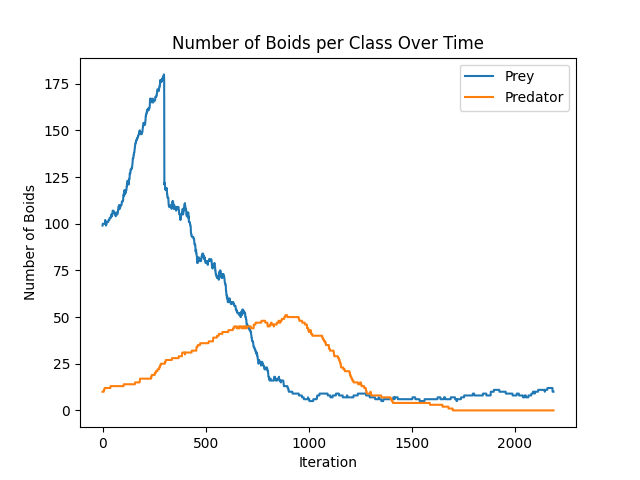
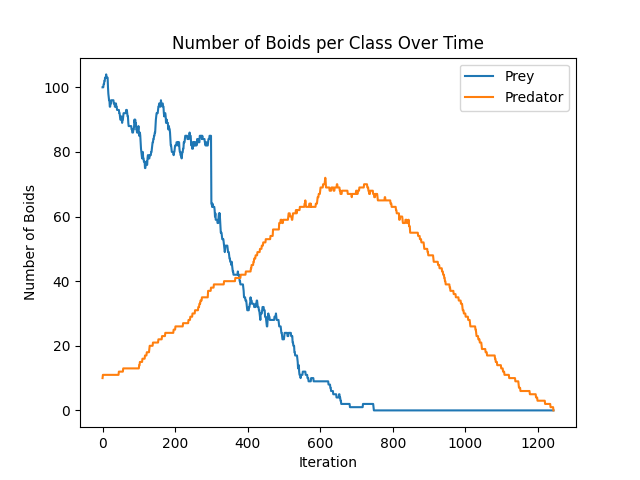
Option to turn off visualization

diff --git a/boids.py b/boids.py
@@ -228,11 +228,12 @@ def create_params_array(classes, separation_weight, alignment_weight, cohesion_w
     combined_result = np.stack((separation_result, alignment_result, cohesion_result), axis=1)
     return combined_result
 
-def pygame_sim():
-    pygame.init()
-    screen = pygame.display.set_mode((WIDTH, HEIGHT))
-    pygame.display.set_caption("Boids Simulation")
-    clock = pygame.time.Clock()
+def simulation(visual=True, sim_length=None):
+    if visual:
+        pygame.init()
+        screen = pygame.display.set_mode((WIDTH, HEIGHT))
+        pygame.display.set_caption("Boids Simulation")
+        clock = pygame.time.Clock()
 
     boids = np.array([np.random.uniform(0, WIDTH, size=NUM_BOIDS),  # x coordiante
                   np.random.uniform(0, HEIGHT, size=NUM_BOIDS), # y coordiante
@@ -258,12 +259,15 @@ def pygame_sim():
     boid_counts = []
 
     while running and len(boids) != 0:
-        screen.fill(BACKGROUND_COLOR)
-        draw_dotted_margin(screen, WIDTH, HEIGHT)
+        if visual: 
+            screen.fill(BACKGROUND_COLOR)
+            draw_dotted_margin(screen, WIDTH, HEIGHT)
 
-        for event in pygame.event.get():
-            if event.type == pygame.QUIT:
-                running = False
+            for event in pygame.event.get():
+                if event.type == pygame.QUIT:
+                    running = False
+        elif sim_length and gametic > sim_length:
+            break
 
         deleteableBoids, energiesToReset, parents = update_numba(boids, classes, energies, random_factors, gametic, params=params)
         for boid in energiesToReset:
@@ -276,18 +280,21 @@ def pygame_sim():
 
         boids, classes, energies, random_factors, params = remove_boid(deleteableBoids, boids, classes, energies, random_factors, params=params)
 
-        draw_boids(screen, boids, classes)
+        if visual:
+            draw_boids(screen, boids, classes)
 
         # Count the number of boids per class
         counts = [np.sum(classes == i) for i in range(len(CLASSES))]
         boid_counts.append(counts)
 
-        pygame.display.flip()
-        clock.tick(30)
+        if visual:
+            pygame.display.flip()
+            clock.tick(30)
         gametic += 1
         energies -= 1
 
-    pygame.quit()
+    if visual:
+        pygame.quit()
 
     return boid_counts
 
@@ -309,7 +316,9 @@ def plot_boid_counts(boid_counts, num_classes):
     plt.close()
 
 if __name__ == "__main__":
-    boid_counts = pygame_sim()
+    visual = False # if True uses pygame to visualize the boids simulation
+
+    boid_counts = simulation(visual, sim_length=None) # Set sim_length to the number of simulation steps you want to run
     plot_boid_counts(boid_counts, len(CLASSES))
 
 
